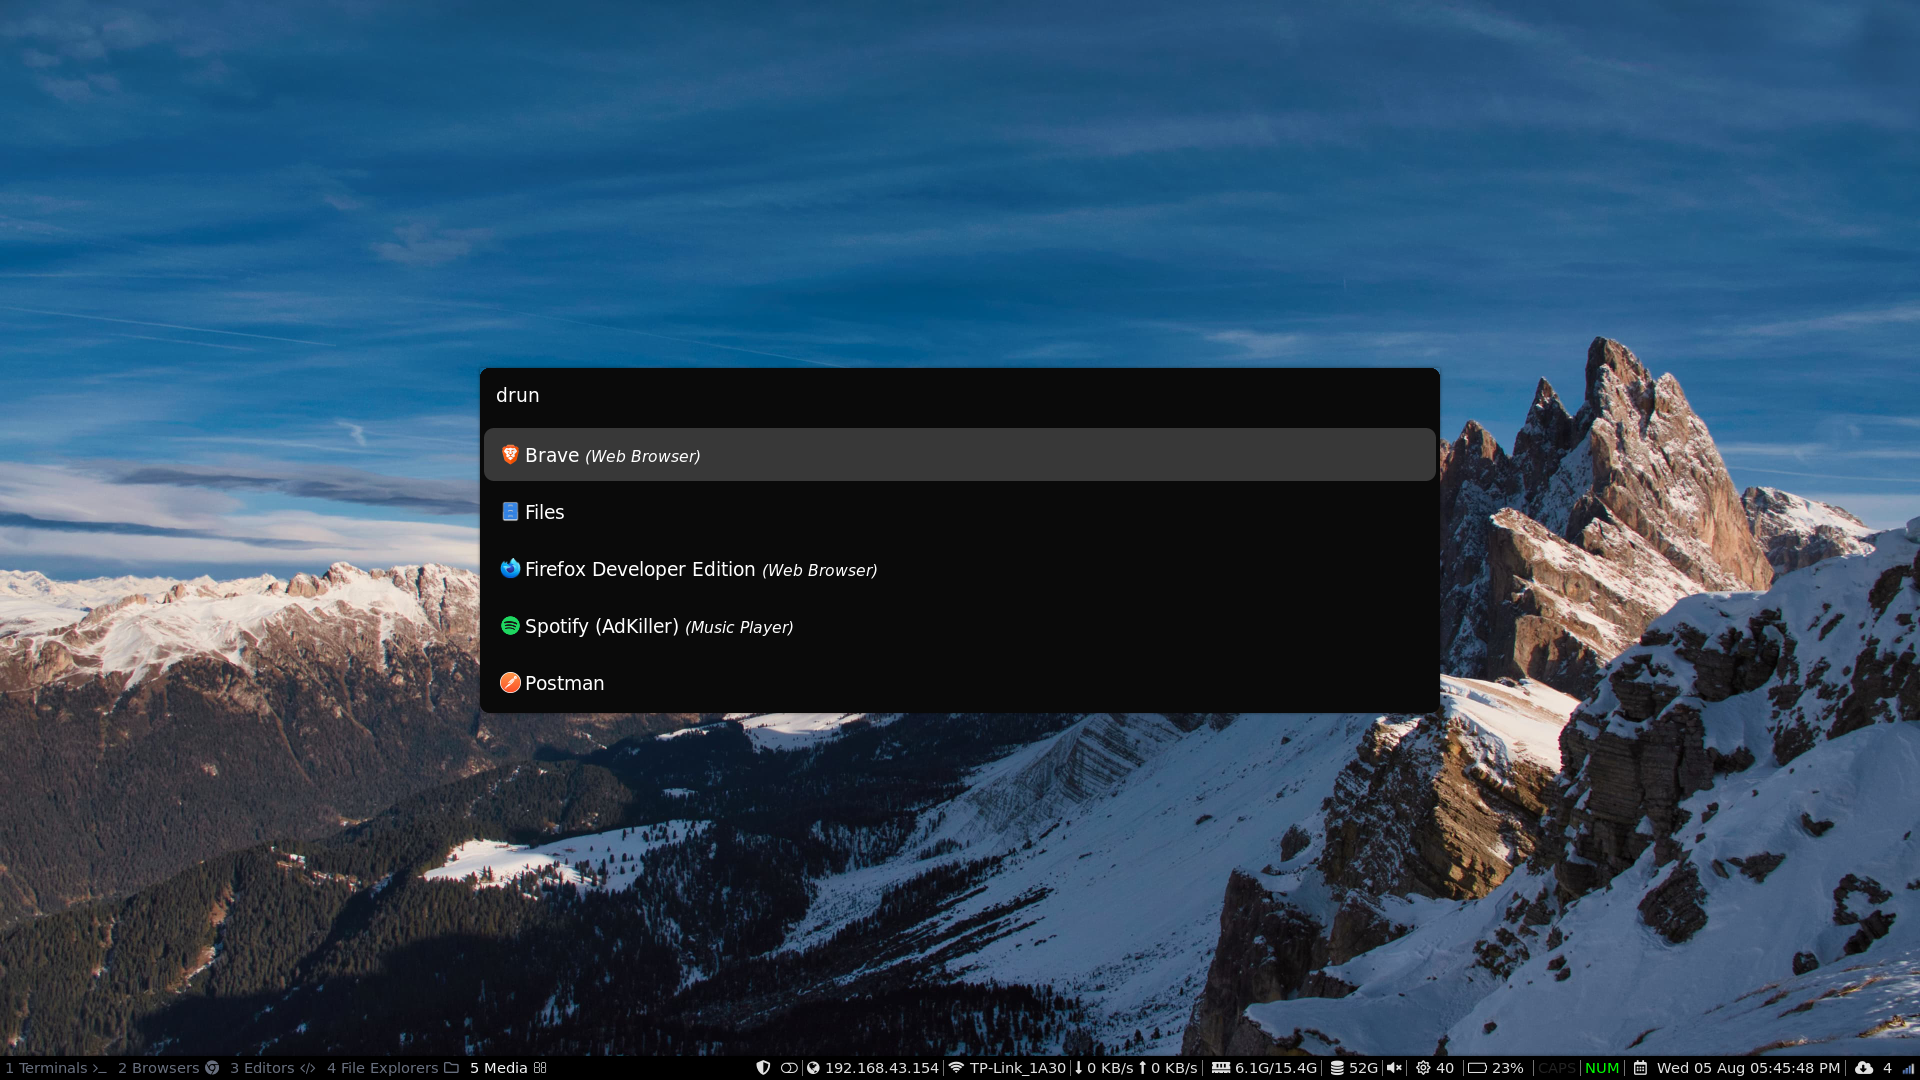
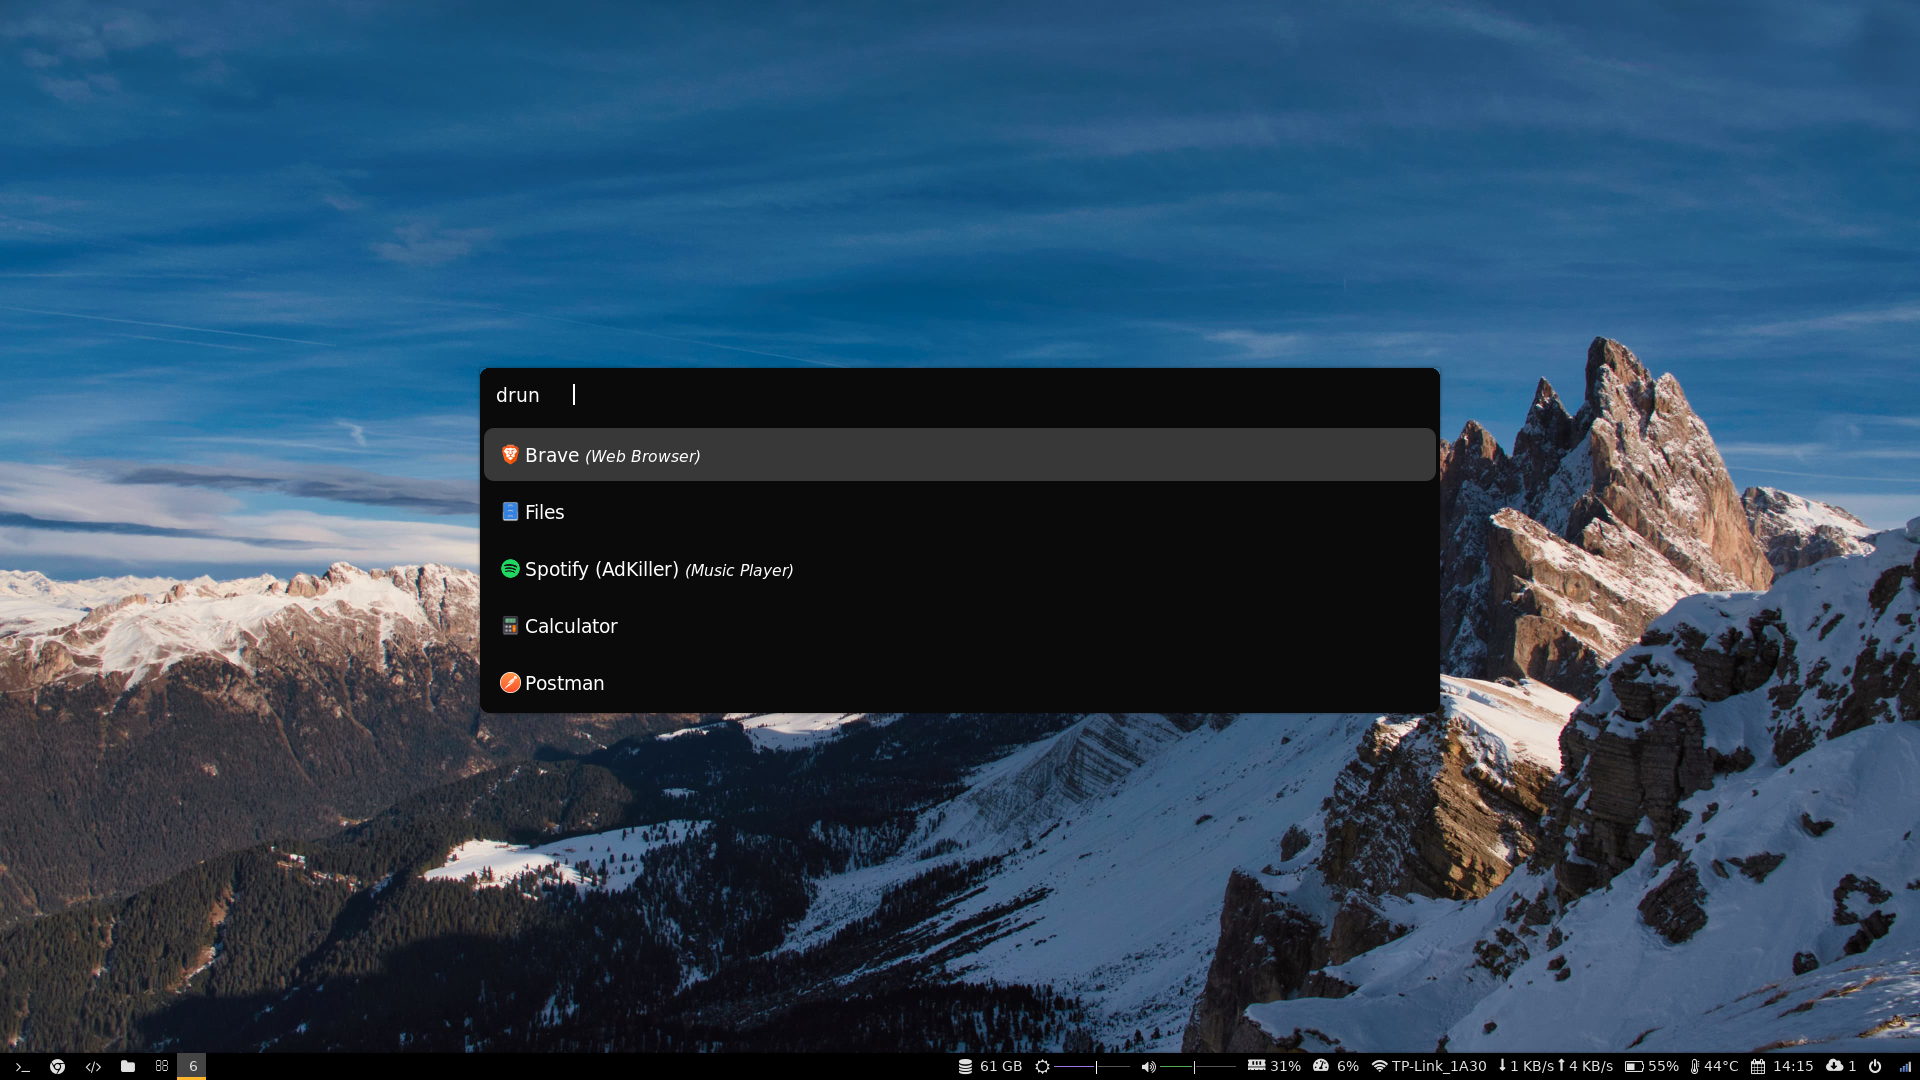
Update readme and ss

Changed region(s): [[0.4062, 0.9472, 1.0, 1.0], [0.25, 0.5194, 0.4375, 0.6111], [0.0, 0.9778, 0.2812, 1.0]]

diff --git a/README.md b/README.md
@@ -2,7 +2,7 @@
 
 * OS: Arch Linux
 * WM: i3-rounded-gaps
-* Status Bar: i3-blocks
+* Status Bar: polybar
 * Menu: rofi
 * Lock Screen: betterlockscreen
 
